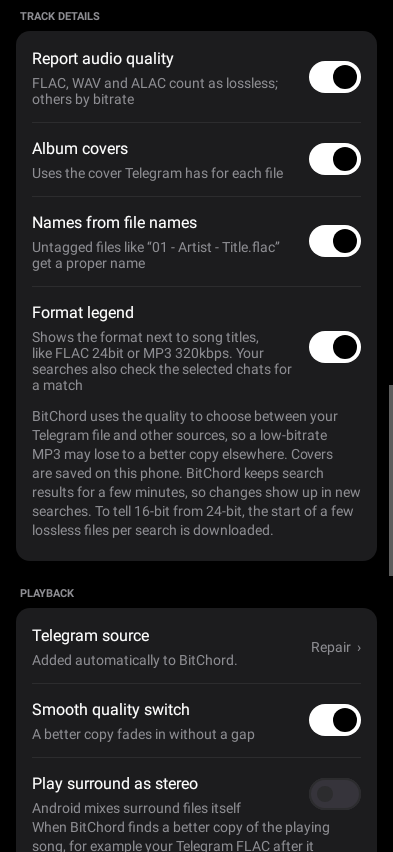
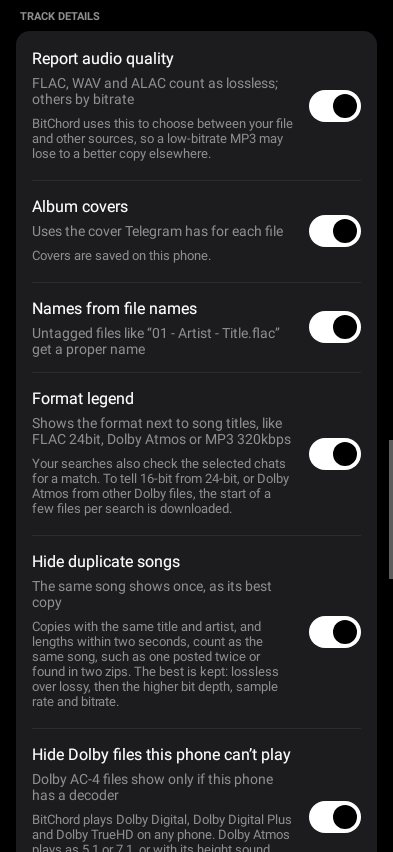
Documents: describe the current version only
Drops the troubleshooting section about the separate setup icon from 0.2.0,
and replaces the README screenshots with ones of the current Telegram page,
including Hide duplicate songs and the Dolby setting under Track details.

diff --git a/docs/TROUBLESHOOTING.md b/docs/TROUBLESHOOTING.md
@@ -79,12 +79,6 @@ Channel View supports selected, accessible, unprotected channels. It does not op
 
 Telegram may return no sponsored messages. If a sponsored card reports a loading or media error, try its retry action. See [Known limitations](KNOWN_LIMITATIONS.md) for unsupported link and media cases.
 
-## There are two icons for the patched app
-
-0.2.0 added a separate "Unofficial Telegram setup" icon. Update to 0.2.1 or later: patch the original BitChord APK again and install it over your existing app with the same Morphe signing key. Telegram setup is under **Settings → Account & integrations → Unofficial Telegram**.
-
-If an old shortcut stays on your home screen after updating, just remove the shortcut. Don't uninstall the app, or you'll lose your settings and Telegram session.
-
 ## Storage is too high
 
 Stop playback before clearing **Storage → Clear Telegram audio cache** on the Telegram page. Check BitChord's song cache and downloads separately. The cache target can be exceeded by active files, and signing out does not erase saved copies.
